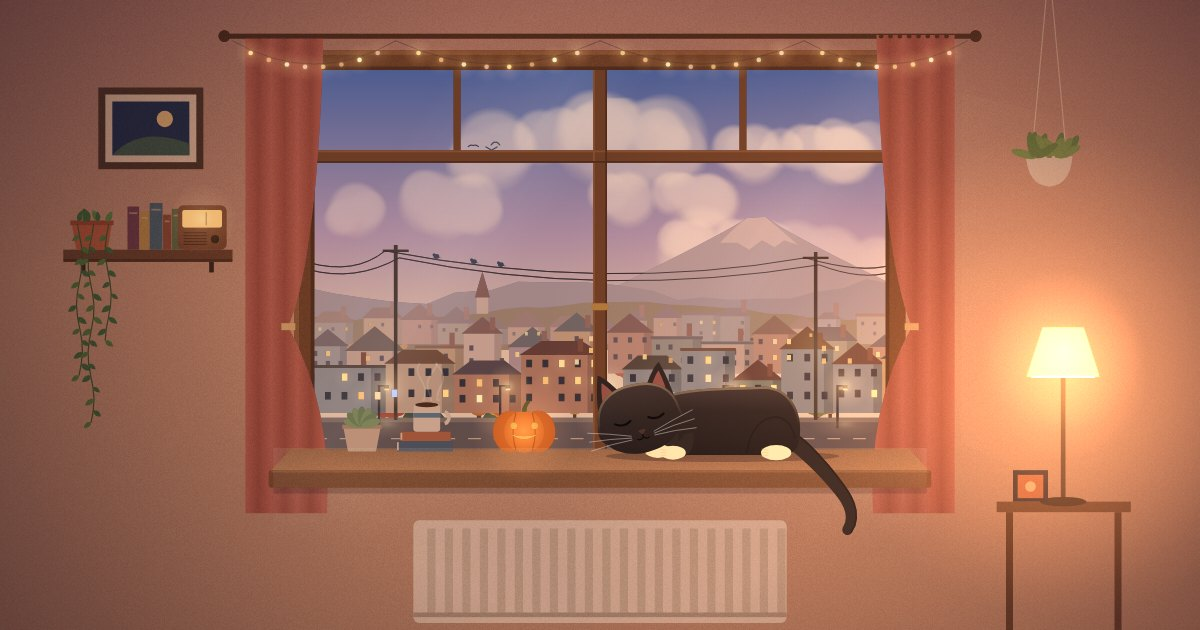
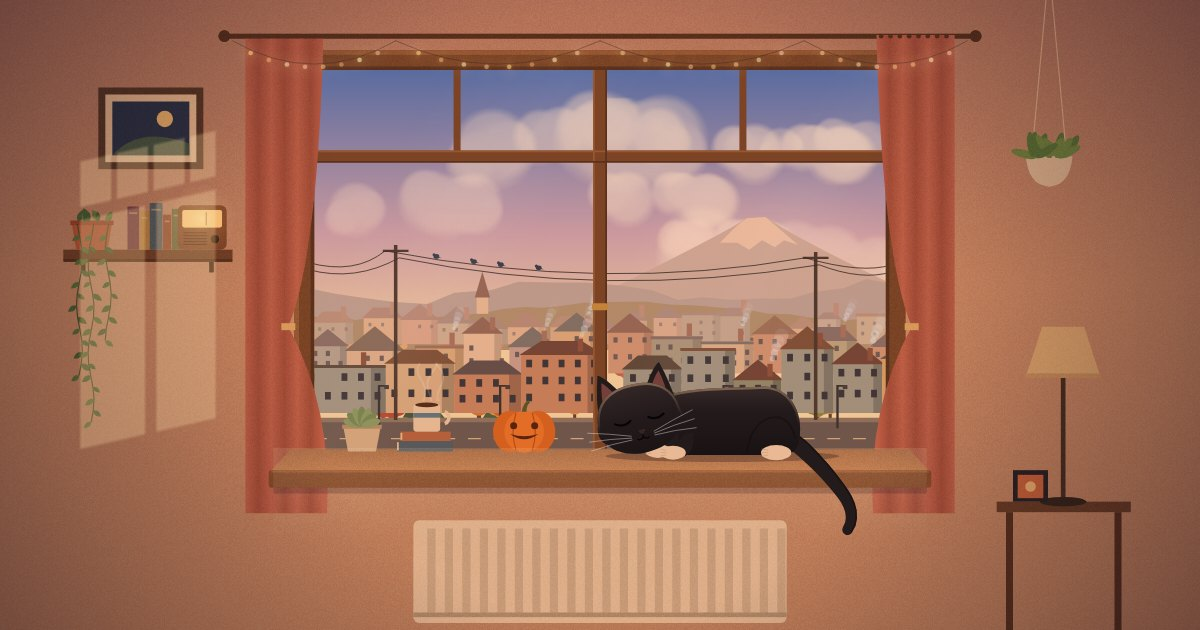
Lofi Cat Radio: refreshed arcade cabinet and share images with the current look
Claude-Session: https://claude.ai/code/session_01X56G1ztXr5xdhu8tQZw1eN

diff --git a/lofi/index.html b/lofi/index.html
@@ -10,7 +10,7 @@
 <meta property="og:url" content="https://dubry.com/lofi/">
 <meta property="og:title" content="Lofi Cat Radio">
 <meta property="og:description" content="Lofi cats to relax to. Generative music and a sleepy cat on a windowsill, live in your browser.">
-<meta property="og:image" content="https://dubry.com/lofi/og.jpg">
+<meta property="og:image" content="https://dubry.com/lofi/og.jpg?v=2">
 <meta name="twitter:card" content="summary_large_image">
 <link rel="canonical" href="https://dubry.com/lofi/">
 <link rel="icon" href="favicon.svg" type="image/svg+xml">

diff --git a/DECISIONS.md b/DECISIONS.md
@@ -354,6 +354,9 @@ these behaviour glitches, all fixed and re-measured:
   DOM nodes constant (332), 55–60 fps, no console errors. It showed two rare long frames (55 and 82 ms), most likely
   a snow layer being built when snow first fell. Snow layers are now built in idle time too. Measured afterwards:
   every cache is ready within 8 s of opening the page, and the worst frame when snow begins is 4 ms.
+- Refreshed the arcade cabinet image (`lofi-radio.webp`, in `src/static/cabs/` and `dist/nine-lives/cabs/`) and the
+  share image (`lofi/og.jpg`, now `?v=2` so social sites refetch it) with the current look (dusk, chimney smoke,
+  window-shaped sunbeam, birds on the wire). Both were rendered with `render-video.mjs --still`.
 
 ---
 
